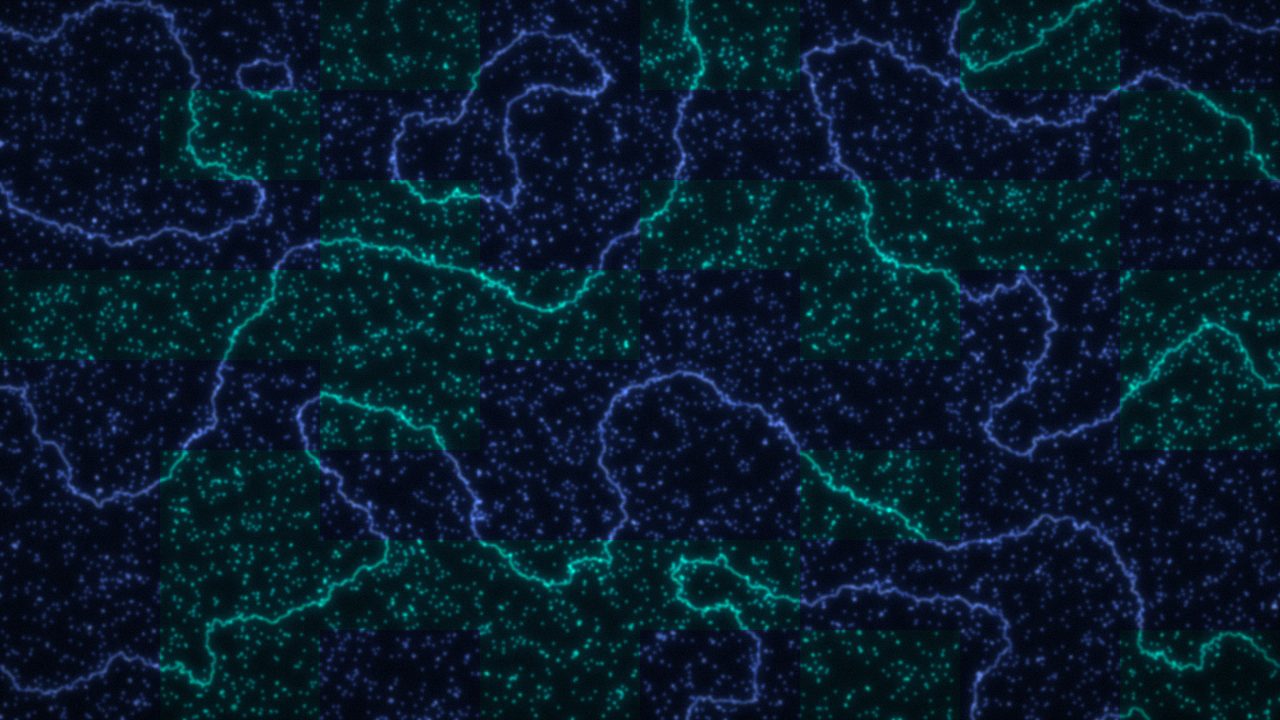
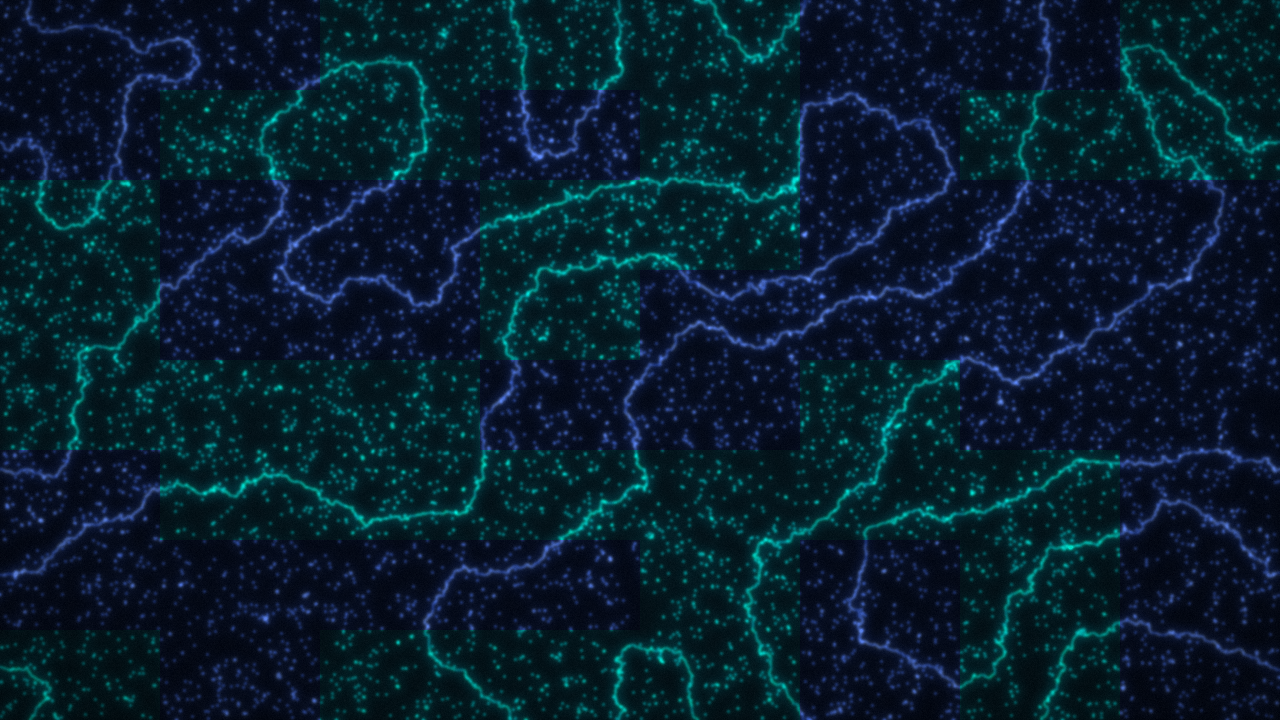
docs: rewrite README and refresh example gallery
- new ASCII wordmark and restructured README
- six distinct screenshots: embers, critical, avalanches, islands, color mixing

diff --git a/README.md b/README.md
@@ -1,52 +1,68 @@
 # RFIM Wallpaper
 
 ```
- ╔════════════════════════════════════════════════════════════════╗
- ║                                                                ║
- ║    R F I M   W A L L P A P E R                                 ║
- ║                                                                ║
- ║    avalanches · crackling · critical phenomena                 ║
- ║    disordered systems on the GPU                               ║
- ║                                                                ║
- ╚════════════════════════════════════════════════════════════════╝
+ ____  _____ ___ __  __
+|  _ \|  ___|_ _|  \/  |
+| |_) | |_   | || |\/| |
+|  _ <|  _|  | || |  | |
+|_| \_\_|   |___|_|  |_|
 
-    ↑ ↓ ↑ ↓ ↑ ↓ ↑ ↓ ↑ ↓ ↑ ↓          ↑  ↑  ↓  ↓  ↑  ↓
-    ↓ ↑ ↓ ↑ ↓ ↑ ↓ ↑ ↓ ↑ ↓ ↑          spin configuration
-    ↑ ↓ ↑ ↑ ↓ ↓ ↑ ↓ ↑ ↑ ↓ ↓                ▼
-    ↓ ↑ ↓ ↓ ↑ ↑ ↓ ↑ ↓ ↓ ↑ ↑          a domain wall
+__        ___    _     _     ____   _    ____  _____ ____
+\ \      / / \  | |   | |   |  _ \ / \  |  _ \| ____|  _ \
+ \ \ /\ / / _ \ | |   | |   | |_) / _ \ | |_) |  _| | |_) |
+  \ V  V / ___ \| |___| |___|  __/ ___ \|  __/| |___|  _ <
+   \_/\_/_/   \_\_____|_____|_| /_/   \_\_|   |_____|_| \_\
 ```
 
-Turn statistical mechanics into desktop art. `rfim-wallpaper` simulates a
-**Random Field Ising Model** on the GPU (PyTorch/CUDA) and renders the resulting
-domain walls as fractal "ember" textures — quenched disorder, Barkhausen
-avalanches, crackling noise, and critical phenomena, at native resolution.
-
-## What it does
-
-Two dynamics, one Hamiltonian
+**Statistical mechanics as desktop art.** A GPU-accelerated
+[Random Field Ising Model](https://en.wikipedia.org/wiki/Random_field_Ising_model)
+that turns quenched disorder, Barkhausen avalanches and critical phenomena into
+fractal wallpapers — one spin per pixel, at native resolution.
 
 ```
-H = -J Σ_<ij> s_i s_j - Σ_i h_i s_i - H_ext Σ_i s_i ,   h_i ~ N(0, Δ)
+H = -J Σ s_i s_j  -  Σ h_i s_i  -  H_ext Σ s_i ,     h_i ~ N(0, Δ)
 ```
+
+## Gallery
+
+| Embers — thermal | Critical Ising (T_c) |
+|---|---|
+| ![embers-thermal](examples/embers-thermal.png) | ![synthwave-critical](examples/synthwave-critical.png) |
+
+| Avalanches (T = 0) | Asymmetric islands |
+|---|---|
+| ![matrix-avalanche](examples/matrix-avalanche.png) | ![cobalt-islands](examples/cobalt-islands.png) |
+
+| Two-color blend (`clouds`) | Hard zones (`zones`) |
+|---|---|
+| ![plasma-lime](examples/plasma-lime-clouds.png) | ![neon-cobalt](examples/neon-cobalt-zones.png) |
+
+## Two dynamics, one Hamiltonian
 
 | mode | physics | knobs |
 |------|---------|-------|
 | `avalanche` | **T = 0** field ramp → Barkhausen crackling. Spins start all-down and `H_ext` is ramped; each step relaxes to the unique ground state (Middleton *no-passing* theorem). The bursts of flips are the avalanches. | `--disorder`, `--ramp-steps`, `--target-m` |
-| `thermal` | **finite T** Metropolis Monte Carlo, vectorized on the checkerboard. `Δ=0`, `T=T_c≈2.269` reproduces the clean 2D Ising critical point; `Δ>0` pins and roughens the walls (Imry–Ma disorder in `d=2`). | `--temperature`, `--disorder`, `--field`, `--sweeps` |
+| `thermal` | **finite T** Metropolis Monte Carlo, vectorized on the checkerboard. `Δ = 0`, `T = T_c ≈ 2.269` reproduces the clean 2D Ising critical point; `Δ > 0` pins and roughens the walls (Imry–Ma disorder in `d = 2`). | `--temperature`, `--disorder`, `--field`, `--sweeps` |
 
-One spin = one pixel, so there is **no upscaling blur** — run it at native
-resolution up to 4K.
+## Features
+
+- **One spin = one pixel** — no upscaling blur, up to 4K.
+- **Two dynamics** — finite-temperature Monte Carlo and T = 0 avalanche ramps.
+- **14 color themes** with **spatial mixing** (`--colors a,b`).
+- **Named presets** spanning the phase diagram.
+- **Reproducible** — same seed, same image, even on GPU.
+- **Pure PyTorch/CUDA** pipeline: field generation, neighbor sums, relaxation, walls and blur all run as GPU tensors.
 
 ## Install
 
 ```bash
 conda create -n wallpaper python=3.12 -y
 conda activate wallpaper
-pip install torch --index-url https://download.pytorch.org/whl/cu126   # or the CUDA build for your driver
+pip install torch --index-url https://download.pytorch.org/whl/cu126   # match your driver
 pip install -e .
 ```
 
-Verify the GPU is detected:
+Verify the GPU:
 
 ```bash
 python -c "import torch; print(torch.cuda.is_available())"   # True
@@ -55,24 +71,14 @@ python -c "import torch; print(torch.cuda.is_available())"   # True
 ## Quickstart
 
 ```bash
-rfim-wallpaper --resolution fhd                          # default: embers, native-like, T=1.6
-rfim-wallpaper --preset pulito --resolution qhd          # clean Ising at T_c, 2K
-rfim-wallpaper --preset crackle                          # T=0 avalanches
-rfim-wallpaper --colors matrix                           # solid theme
-rfim-wallpaper --colors plasma,lime --mix clouds         # two-color zones
+rfim-wallpaper                                  # default: embers, sparse thermal
+rfim-wallpaper --preset pulito --resolution qhd # clean Ising at T_c, 2K
+rfim-wallpaper --preset caos                    # fragmented chaos
+rfim-wallpaper --colors matrix                  # solid theme
+rfim-wallpaper --colors plasma,lime --mix clouds
 ```
 
 Output: `~/rfim-wallpaper.png` (override with `--out`).
-
-## Gallery
-
-| Embers · thermal | Avalanche · matrix |
-|---|---|
-| ![braci-thermal](examples/braci-thermal.png) | ![matrix-avalanche](examples/matrix-avalanche.png) |
-
-| Two-color blend (`clouds`) | Hard zones (`zones`) |
-|---|---|
-| ![plasma-lime](examples/plasma-lime-clouds.png) | ![neon-cobalt](examples/neon-cobalt-zones.png) |
 
 ## Color themes
 
@@ -94,16 +100,16 @@ rfim-wallpaper --colors blue,lime     # blend zones of two themes
 
 | mode | look |
 |------|------|
-| `clouds` (default) | smooth organic zones |
+| `clouds` *(default)* | smooth organic zones |
 | `gradient` | diagonal blend |
 | `radial` | center vs. edges |
 | `angular` | around the center |
 | `zones` | hard Voronoi-like cells |
 
-## Simulation presets
+## Presets
 
-Six named recipes in [`presets.toml`](rfim_wallpaper/presets.toml), each targeting
-a distinct regime:
+Six recipes in [`presets.toml`](rfim_wallpaper/presets.toml), each a distinct
+regime:
 
 | preset | mode | character |
 |--------|------|-----------|
@@ -116,27 +122,13 @@ a distinct regime:
 
 ```bash
 rfim-wallpaper --list-presets
-rfim-wallpaper --preset fumo          # default: sparse
-rfim-wallpaper --preset caos          # fragmented
+rfim-wallpaper --preset fumo --disorder 0.5 --sweeps 1000   # override anything
 ```
 
-Any flag overrides the preset: `--preset fumo --disorder 0.5 --sweeps 1000`.
-
-## Reproducibility
-
-Same seed → same image, even on GPU: the quenched field and grain are generated
-deterministically on the CPU, and the GPU only runs deterministic math.
-
-```bash
-rfim-wallpaper --seed 42 --resolution fhd --out a.png
-rfim-wallpaper --seed 42 --resolution fhd --out b.png
-cmp a.png b.png                        # identical
-```
-
-## CLI reference
+## CLI
 
 ```
---resolution {hd,fhd,qhd,uhd,native}   output resolution (1 spin = 1 px)
+--resolution {hd,fhd,qhd,uhd,native}   output size (1 spin = 1 px)
 --width / --height                     free-form size
 --style {texture,material}             rendering style
 --mode {thermal,avalanche}             dynamics
@@ -149,12 +141,11 @@ cmp a.png b.png                        # identical
 --list-colors · --list-presets
 ```
 
-## Why it's fast
+## Reproducibility
 
-The whole pipeline runs as GPU tensors: quenched-field generation, the
-nearest-neighbour sums (`torch.roll`), the zero-T front relaxation and the
-Metropolis sweeps, the domain-wall extraction, and the Gaussian blur. A
-1920×1080 simulation thermalizes in a few seconds on an RTX 3060.
+The quenched field and grain are generated deterministically on the CPU, and the
+GPU only runs deterministic math, so the same seed gives the same image — even
+across GPU runs.
 
 ## License
 
